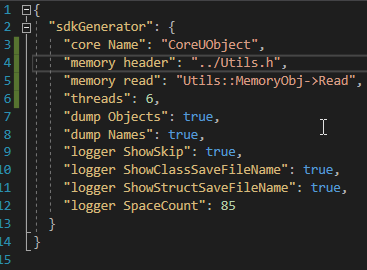
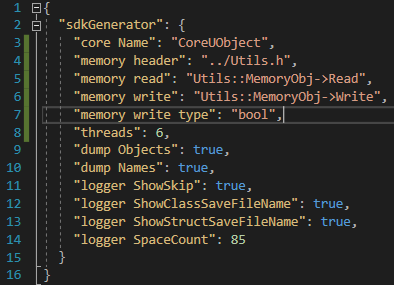
add settings for write memory. update settings file. add WriteAsMe Function.

diff --git a/UnrealFinderTool/SdkGen/Engine/Package.cpp b/UnrealFinderTool/SdkGen/Engine/Package.cpp
@@ -301,6 +301,11 @@ void Package::GenerateScriptStruct(const UEScriptStruct& scriptStructObj)
 		%s(address, ret);
 		return ret;
 	})", scriptStructObj.GetNameCPP(), scriptStructObj.GetNameCPP(), Utils::Settings.SdkGen.MemoryRead)));
+
+		ss.PredefinedMethods.push_back(IGenerator::PredefinedMethod::Inline(tfm::format(R"(	static %s WriteAsMe(const uintptr_t address, %s& toWrite)
+	{
+		return %s(address, toWrite);
+	})", Utils::Settings.SdkGen.MemoryWriteType, scriptStructObj.GetNameCPP(), Utils::Settings.SdkGen.MemoryWrite)));
 	}
 
 	generator->GetPredefinedClassMethods(scriptStructObj.GetFullName(), ss.PredefinedMethods);
@@ -448,6 +453,10 @@ void Package::GenerateClass(const UEClass& classObj)
 		%s(address, ret);
 		return ret;
 	})", classObj.GetNameCPP(), classObj.GetNameCPP(), Utils::Settings.SdkGen.MemoryRead)));
+		c.PredefinedMethods.push_back(IGenerator::PredefinedMethod::Inline(tfm::format(R"(	static %s WriteAsMe(const uintptr_t address, %s& toWrite)
+	{
+		return %s(address, toWrite);
+	})", Utils::Settings.SdkGen.MemoryWriteType, classObj.GetNameCPP(), Utils::Settings.SdkGen.MemoryWrite)));
 	}
 	else
 	{

diff --git a/UnrealFinderTool/Utils.cpp b/UnrealFinderTool/Utils.cpp
@@ -51,6 +51,8 @@ bool Utils::LoadSettings()
 	Settings.SdkGen.CorePackageName = sdkParas["core Name"]; 
 	Settings.SdkGen.MemoryHeader = sdkParas["memory header"];
 	Settings.SdkGen.MemoryRead = sdkParas["memory read"];
+	Settings.SdkGen.MemoryWrite = sdkParas["memory write"];
+	Settings.SdkGen.MemoryWriteType = sdkParas["memory write type"];
 	Settings.SdkGen.Threads = sdkParas["threads"];
 
 	Settings.SdkGen.DumpObjects = sdkParas["dump Objects"];

diff --git a/UnrealFinderTool/Utils.h b/UnrealFinderTool/Utils.h
@@ -9,8 +9,12 @@ struct MySettings
 	struct _SdkGenSettings
 	{
 		std::string CorePackageName;
+
 		std::string MemoryHeader;
 		std::string MemoryRead;
+		std::string MemoryWrite;
+		std::string MemoryWriteType;
+
 		int Threads = 0;
 		bool DumpObjects = false;
 		bool DumpNames = false;
